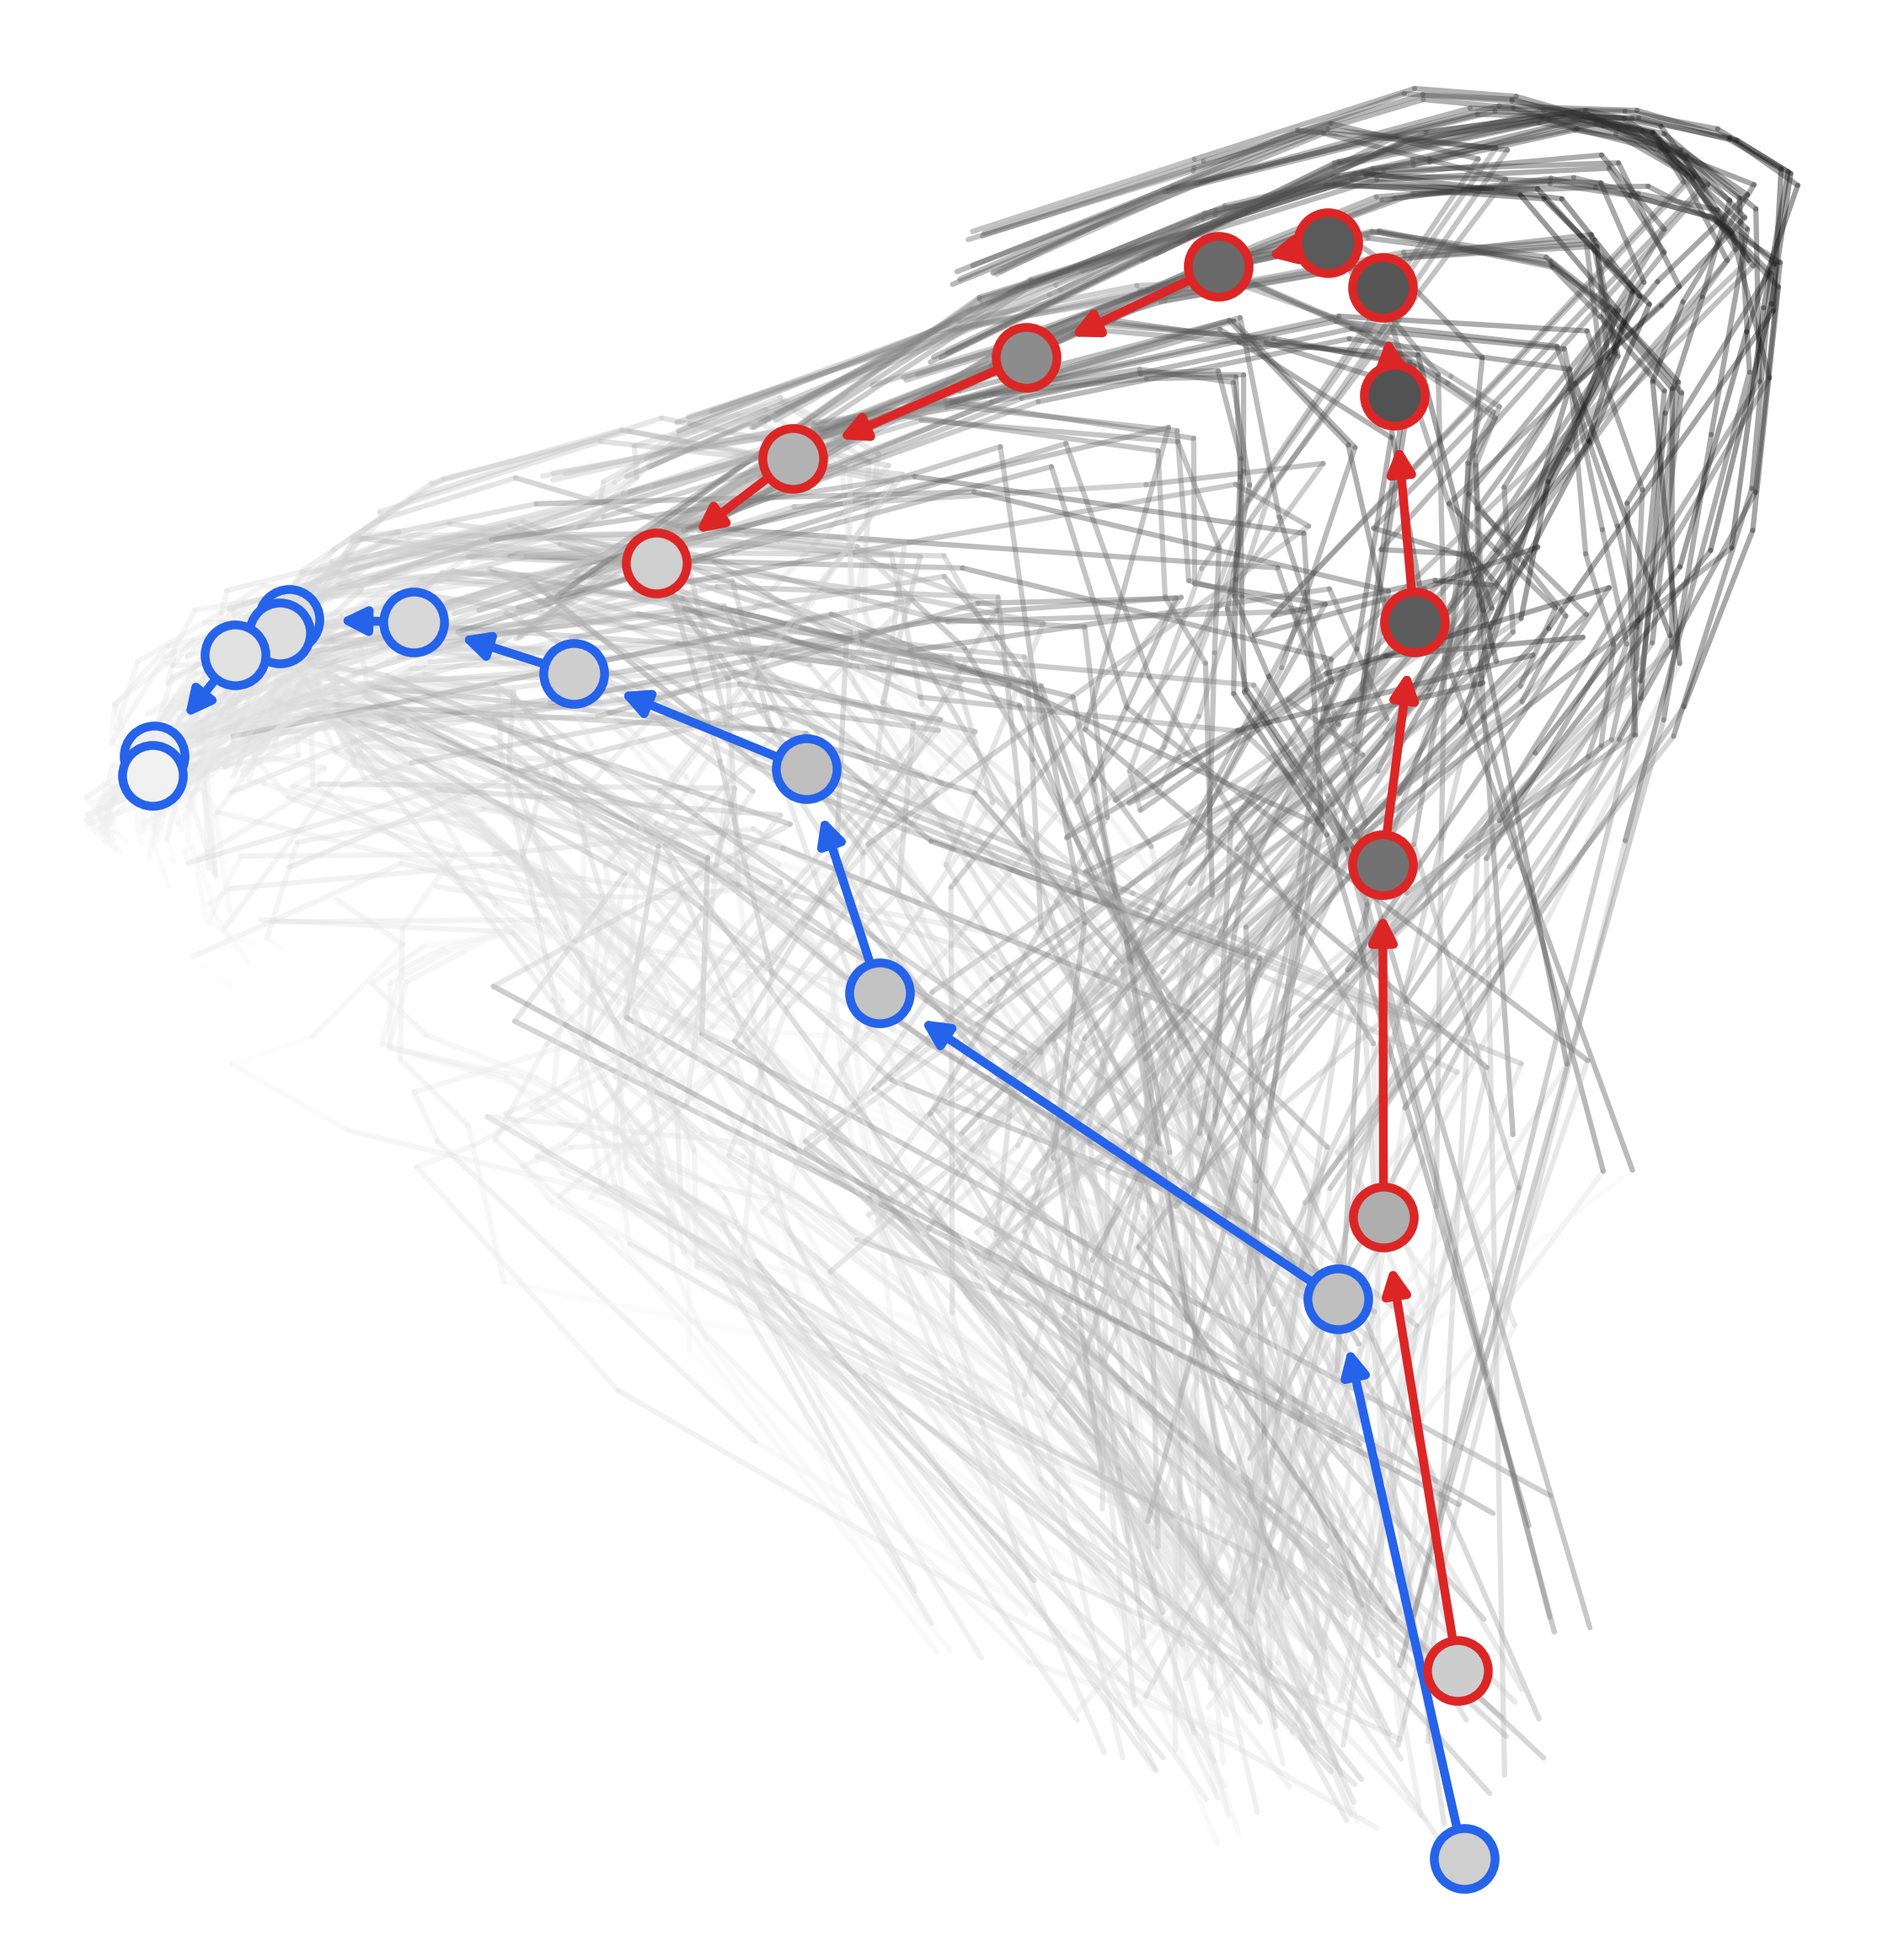
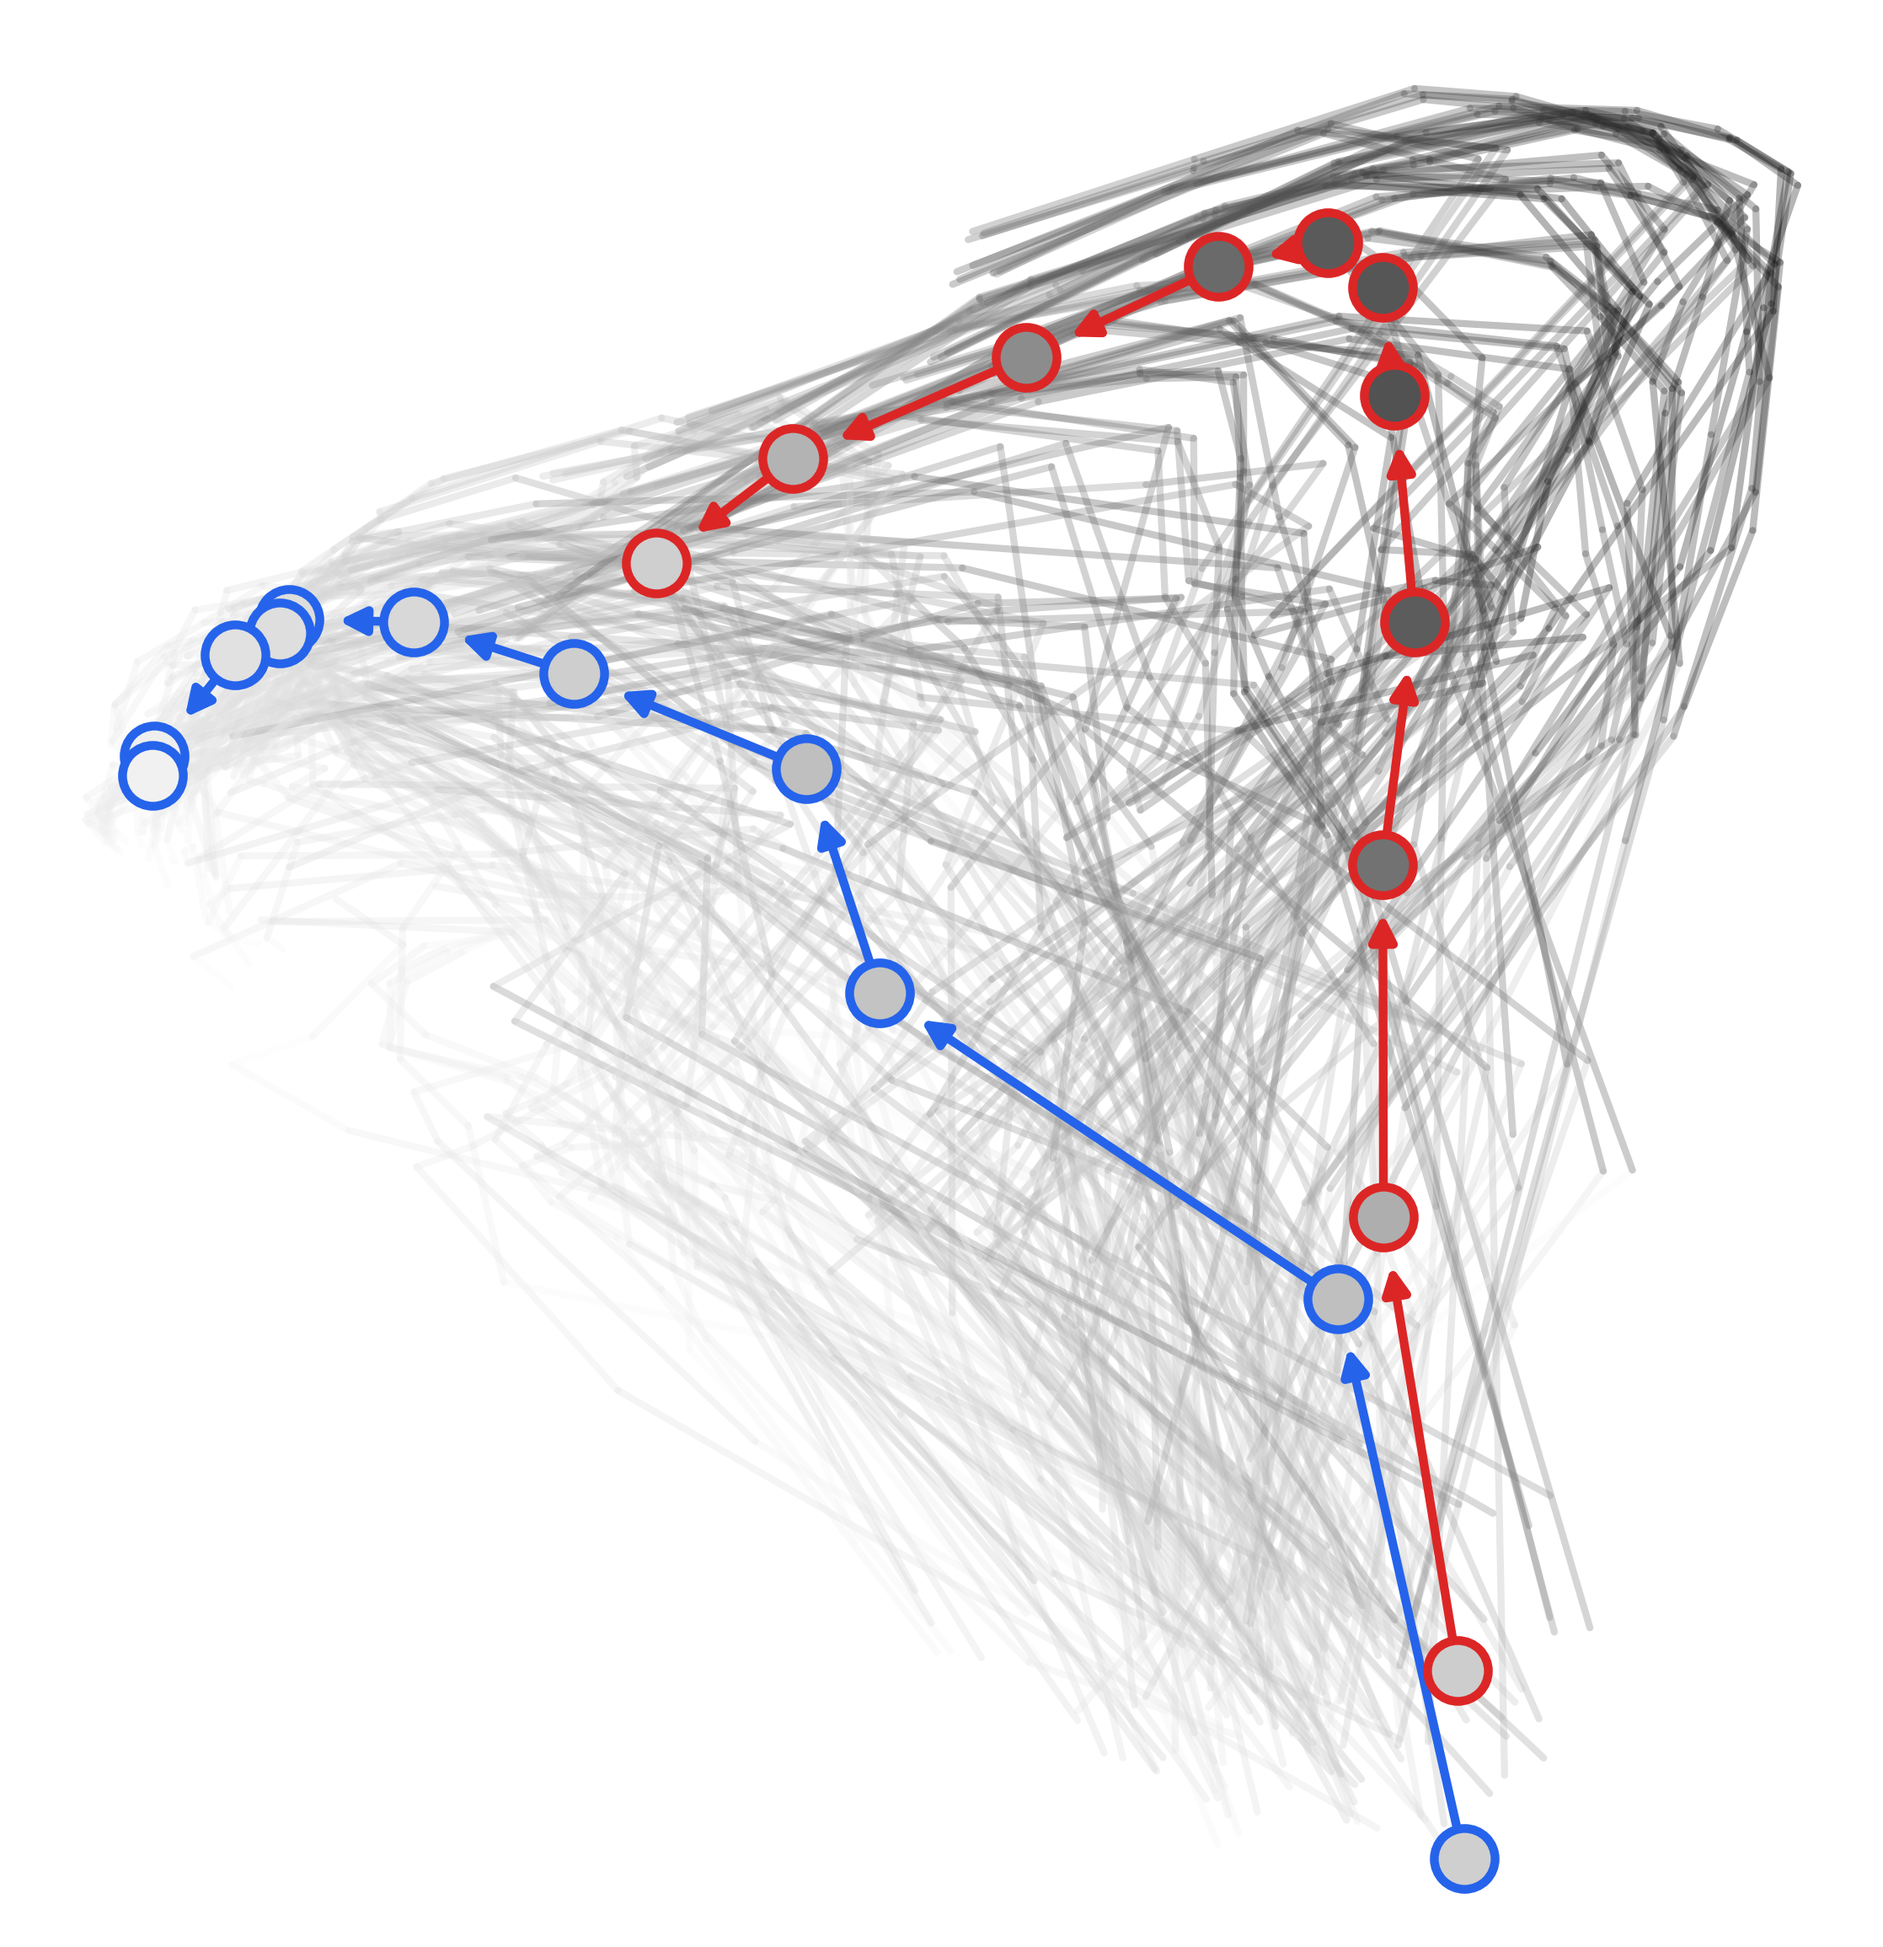
Figures: bg-linewidth back to 2.0, bg-alpha 0.4 → 0.3

Changed region(s): [[0.6174, 0.0312, 0.957, 0.4364], [0.5557, 0.374, 0.5866, 0.4052], [0.4322, 0.187, 0.4631, 0.2182]]

diff --git a/figures/pc_highlighted.py b/figures/pc_highlighted.py
@@ -85,11 +85,11 @@ def main() -> None:
     ap.add_argument("--size", type=float, default=10.0)
     ap.add_argument("--dpi", type=int, default=300)
     ap.add_argument(
-        "--bg-alpha", type=float, default=0.4,
+        "--bg-alpha", type=float, default=0.3,
         help="Alpha for background trajectory edges.",
     )
     ap.add_argument(
-        "--bg-linewidth", type=float, default=1.5,
+        "--bg-linewidth", type=float, default=2.0,
         help="Linewidth for background trajectory edges.",
     )
     ap.add_argument(
